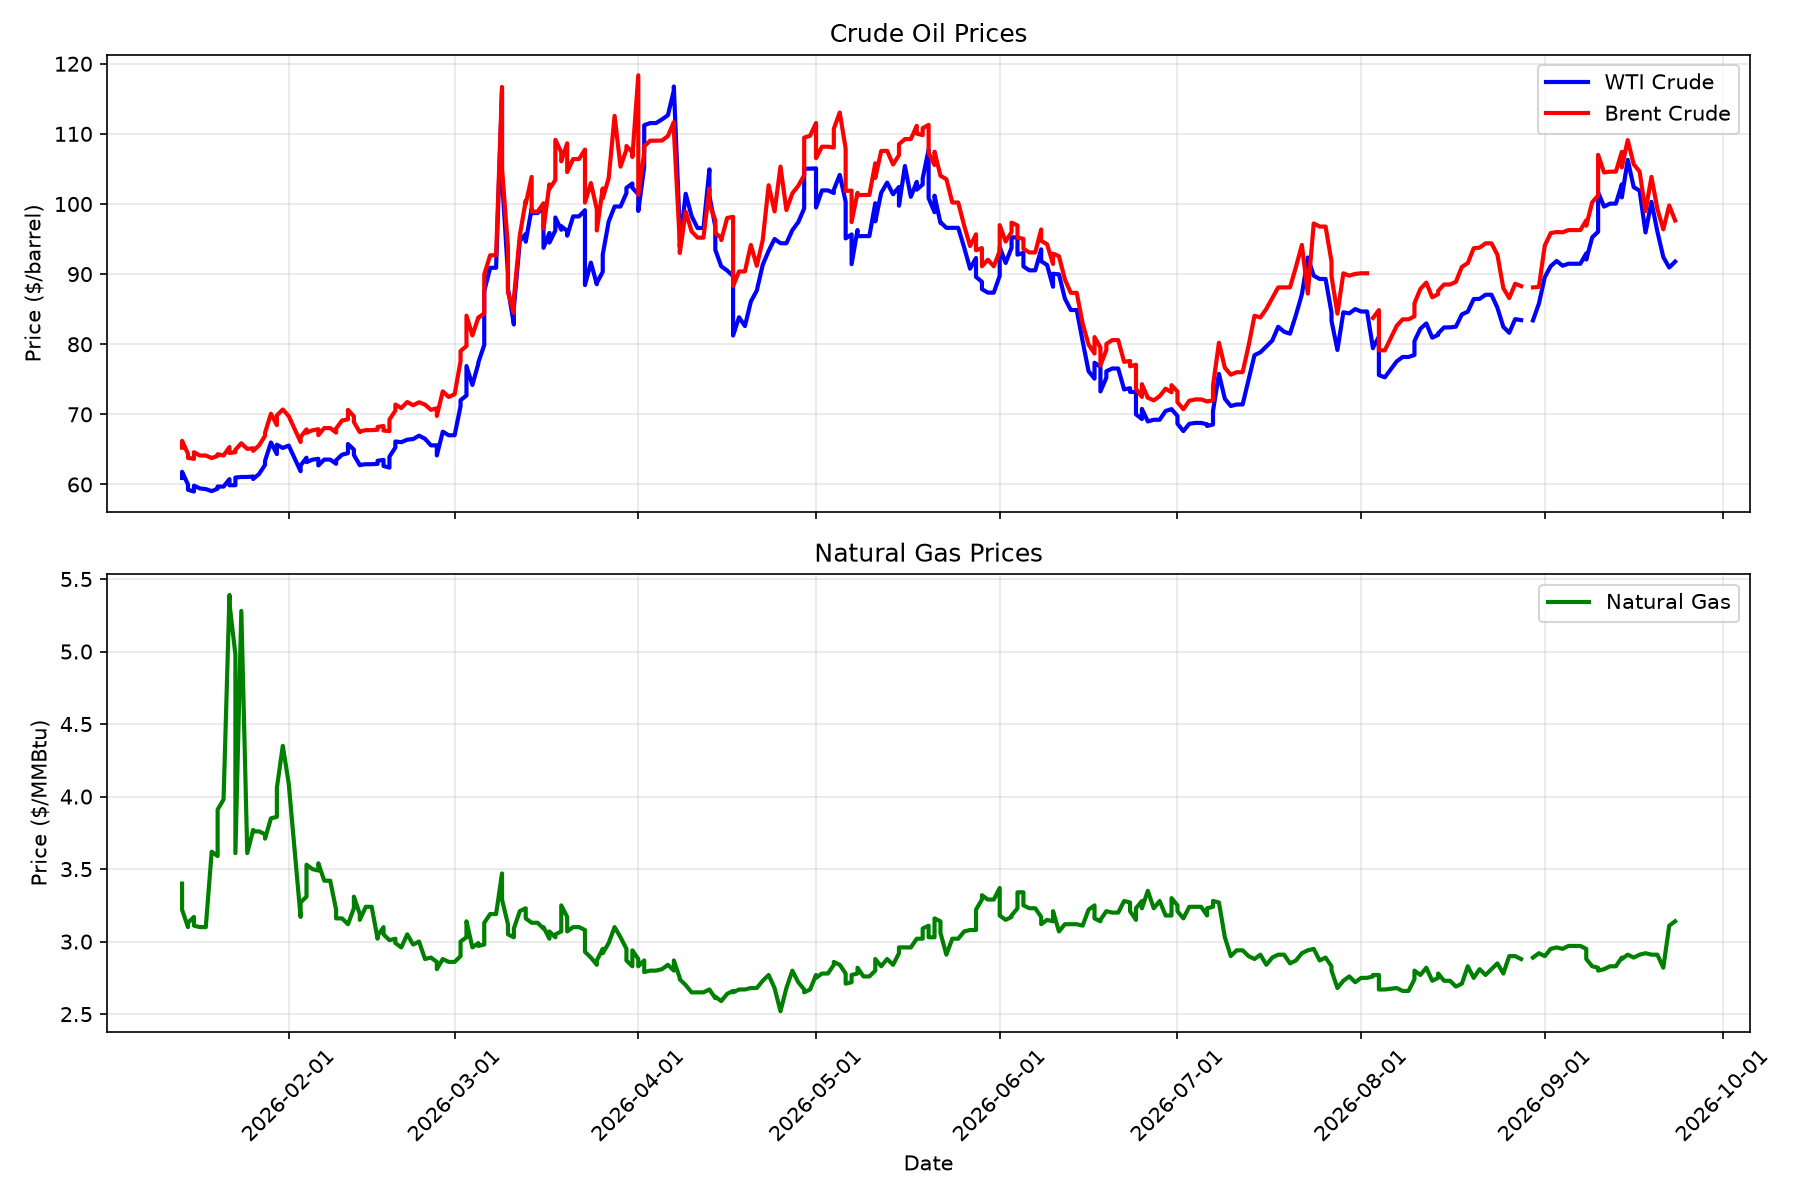
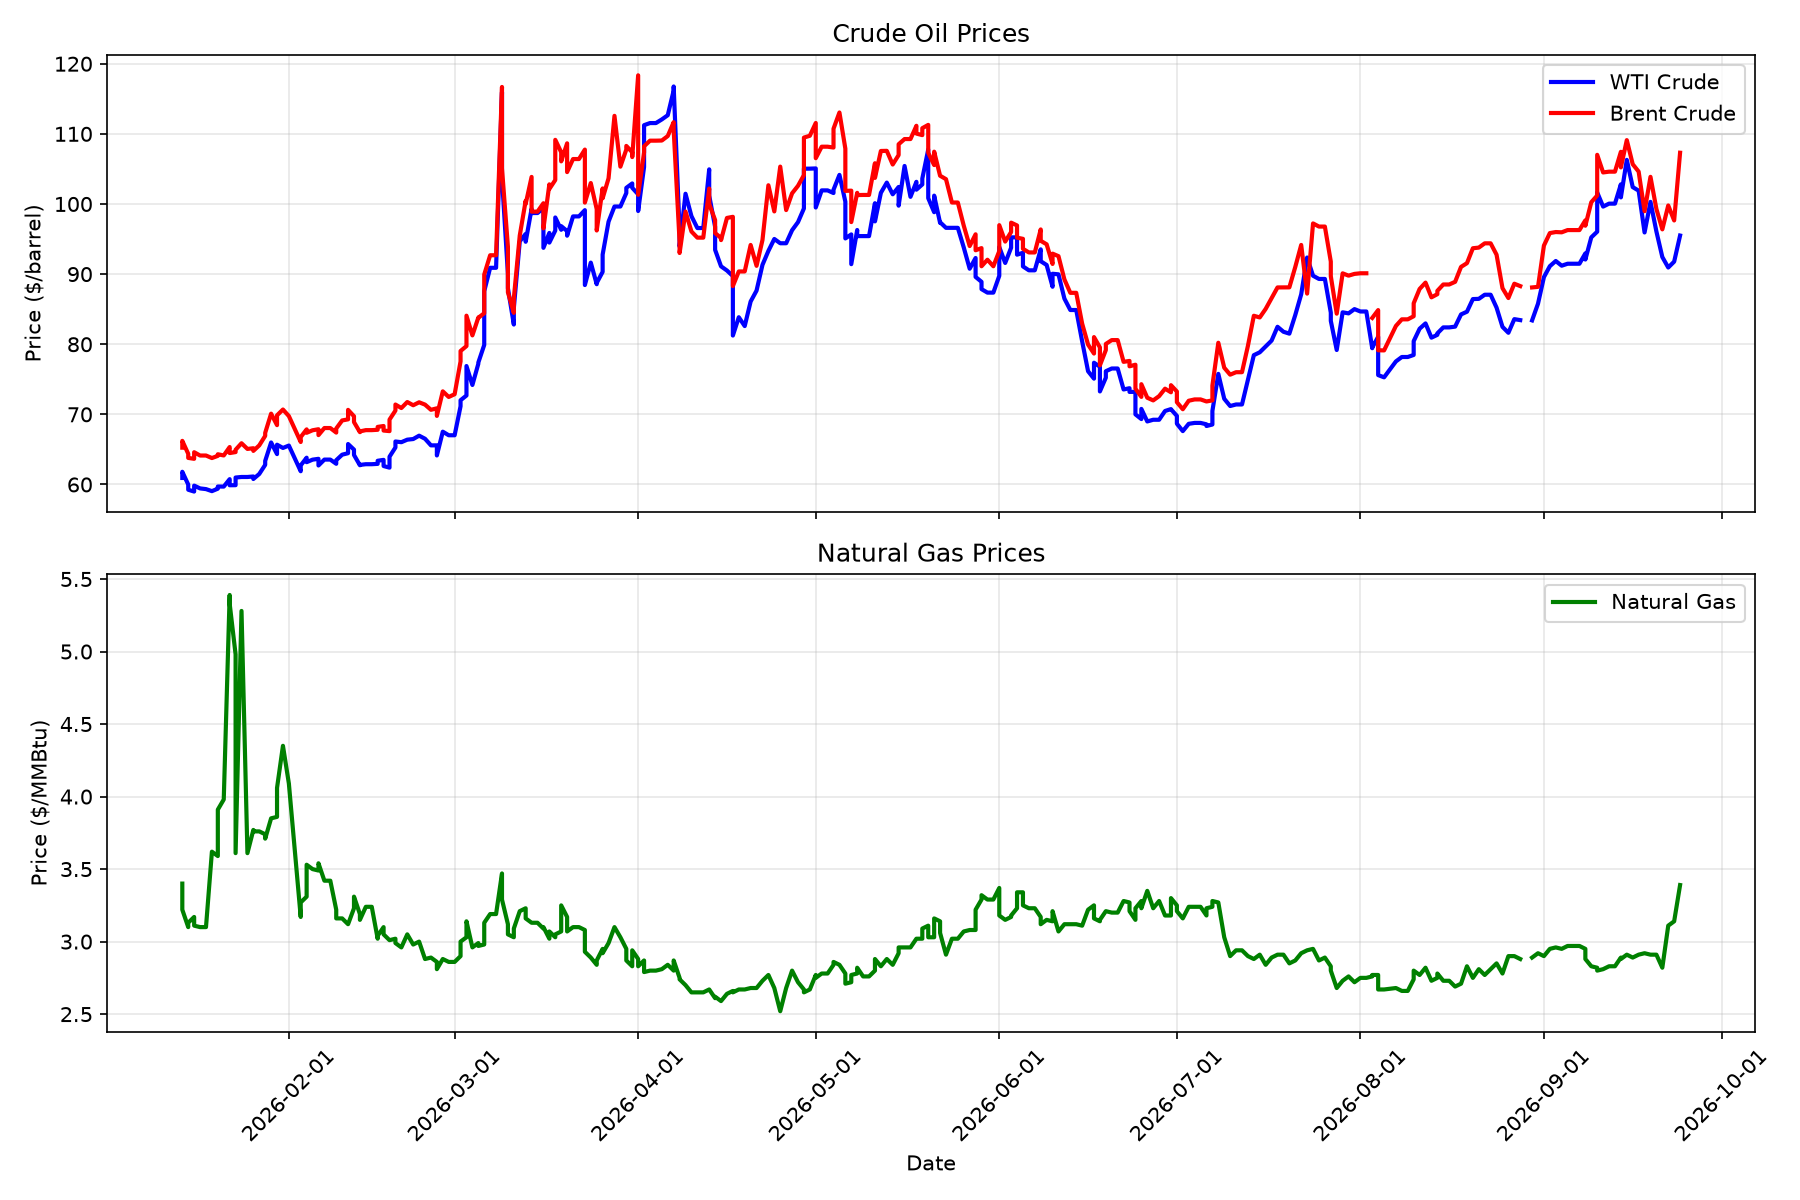
Daily price update: 2026-09-24

diff --git a/README.md b/README.md
@@ -2,29 +2,29 @@
 
 Automated daily tracking of chemical commodity prices and chemical company stocks.
 
-## Latest Prices (Updated: 2026-09-23)
+## Latest Prices (Updated: 2026-09-24)
 
 ### Energy Commodities
 
 | Commodity | Price | Change (24h) | Unit |
 |-----------|-------|--------------|------|
-| WTI Crude Oil | $91.78 | -2.81 (-2.97%) | $/barrel |
-| Brent Crude Oil | $97.65 | -1.60 (-1.61%) | $/barrel |
-| Natural Gas | $3.14 | +0.17 (+5.87%) | $/MMBtu |
-| Heating Oil | $4.58 | -0.36 (-7.28%) | $/gallon |
+| WTI Crude Oil | $95.50 | +3.34 (+3.62%) | $/barrel |
+| Brent Crude Oil | $107.31 | +4.23 (+4.10%) | $/barrel |
+| Natural Gas | $3.39 | +0.36 (+12.04%) | $/MMBtu |
+| Heating Oil | $4.66 | -0.12 (-2.53%) | $/gallon |
 
 ### Chemical Company Stocks
 
 | Company | Ticker | Price | Change (24h) |
 |---------|--------|-------|--------------|
-| Dow Inc. | DOW | $28.78 | +0.00 (+0.00%) |
-| LyondellBasell | LYB | $59.86 | +0.00 (+0.00%) |
-| DuPont | DD | $131.78 | +0.00 (+0.00%) |
-| Air Products | APD | $287.83 | +0.00 (+0.00%) |
-| Linde | LIN | $470.32 | +0.00 (+0.00%) |
-| Eastman Chemical | EMN | $67.32 | +0.00 (+0.00%) |
-| Celanese | CE | $49.48 | +0.00 (+0.00%) |
-| Huntsman | HUN | $9.15 | +0.00 (+0.00%) |
+| Dow Inc. | DOW | $28.83 | +0.18 (+0.64%) |
+| LyondellBasell | LYB | $60.66 | +0.69 (+1.15%) |
+| DuPont | DD | $130.63 | -0.25 (-0.19%) |
+| Air Products | APD | $285.93 | -1.04 (-0.36%) |
+| Linde | LIN | $469.70 | -0.02 (-0.00%) |
+| Eastman Chemical | EMN | $66.01 | -0.79 (-1.18%) |
+| Celanese | CE | $47.92 | -0.58 (-1.19%) |
+| Huntsman | HUN | $8.90 | -0.20 (-2.25%) |
 
 ## Data Sources
 

diff --git a/logs/update_log.md b/logs/update_log.md
@@ -378,3 +378,4 @@ Daily updates to the chemical engineering data repository.
 - **2026-09-21 18:58:06**: Updated 4 energy prices, 8 stocks, 0 FRED series
 - **2026-09-22 17:49:15**: Updated 4 energy prices, 8 stocks, 0 FRED series
 - **2026-09-23 18:04:19**: Updated 4 energy prices, 8 stocks, 0 FRED series
+- **2026-09-24 18:02:10**: Updated 4 energy prices, 8 stocks, 0 FRED series
